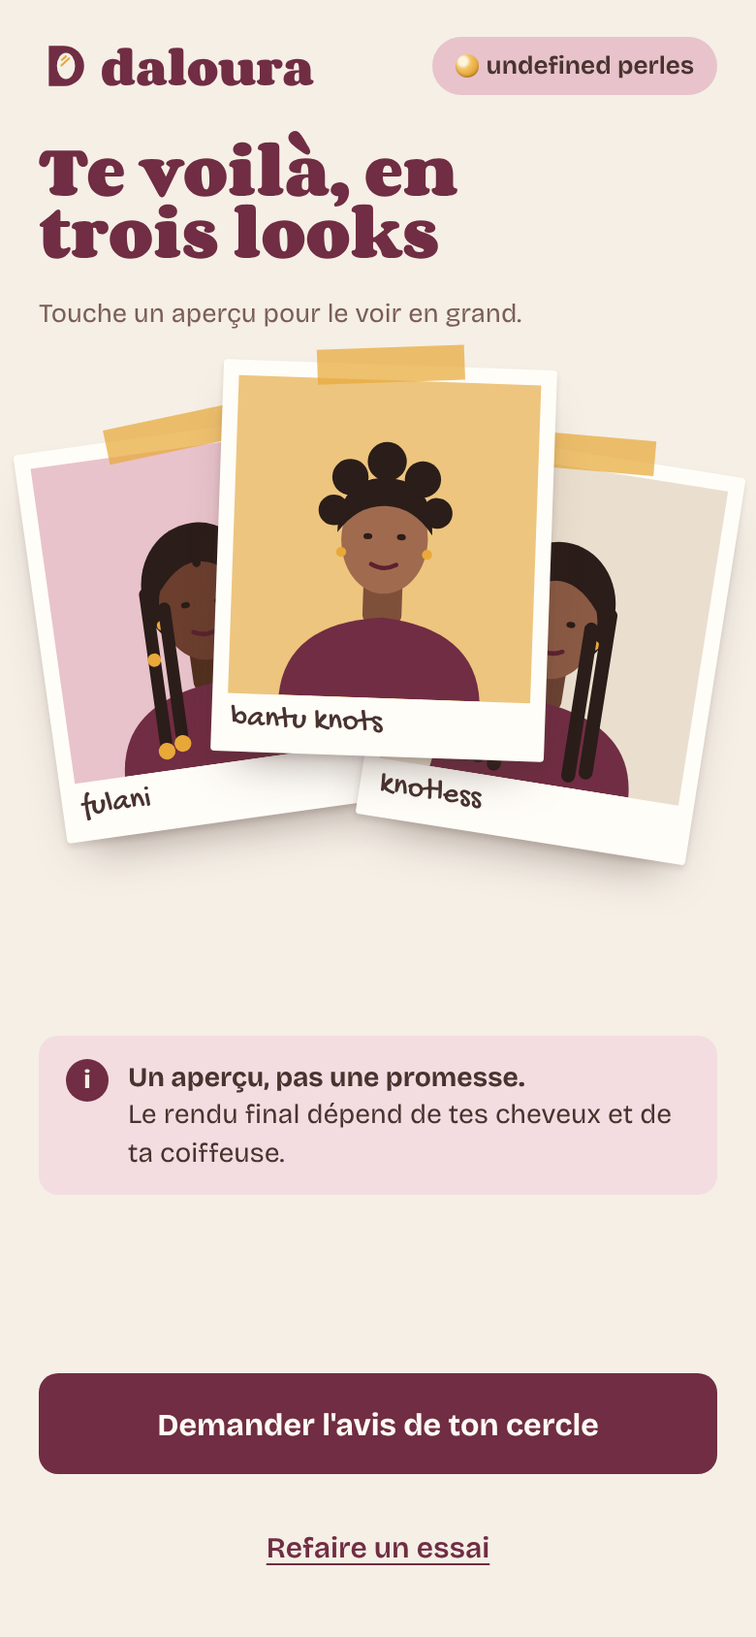
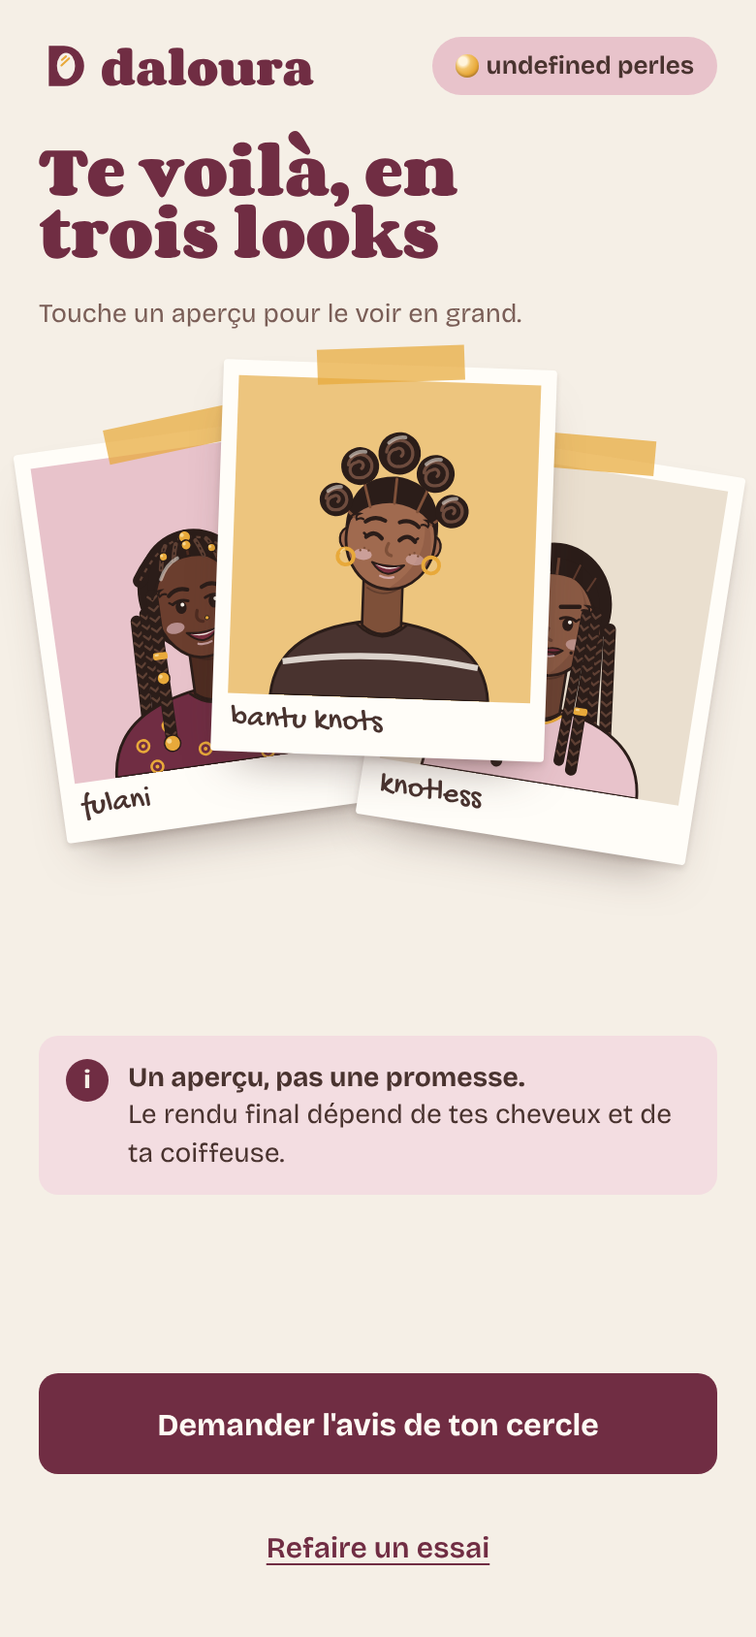
Nouveaux stickers de coiffure validés
- 7 dessins remplacés dans src/assets/ (mêmes noms, même cadre 100×110) :
  tous les écrans les prennent automatiquement.
- Liseré crème façon autocollant sur les stickers (.stk img), mais pas sur
  ses vraies photos d'inspiration (classe vraie-photo) ni sur les polaroids.
- Générateur scripts/stickers_gen.py (sortie dans scripts/out/, ignoré) :
  reproduit exactement les fichiers fournis.
- Image de partage et captures d'installation régénérées.
- Vérifié à 360 et 390 px (Accueil, Bibliothèque, Choix-essai, Choix-3,
  Aperçus, Vote) : aucun débordement, aucune image cassée.
- Correctif : « undefined perles » ne s'affiche plus quand le serveur ne
  renvoie pas un vrai compte.
- CLAUDE.md et README : collection validée, règles pour en ajouter.

Claude-Session: https://claude.ai/code/session_017Cck3H6C7uHeQ1jtVwg9fp

Changed region(s): [[0.3385, 0.2464, 0.6462, 0.4313], [0.5538, 0.3389, 0.8615, 0.4929], [0.1538, 0.3081, 0.3077, 0.4929]]

diff --git a/src/lib/compte.ts b/src/lib/compte.ts
@@ -40,7 +40,10 @@ function publier(e: Partial<Etat>) {
 
 let chargement: Promise<void> | null = null;
 export function rafraichirCompte() {
-  chargement = api<Compte>("/moi").then((r) => publier({ charge: true, compte: r.ok ? r.data : null }));
+  // N'accepte qu'une vraie réponse de compte (sinon, par exemple sans serveur, on n'est pas connectée).
+  chargement = api<Compte>("/moi").then((r) =>
+    publier({ charge: true, compte: r.ok && estUnCompte(r.data) ? r.data : null }),
+  );
   return chargement;
 }
 
@@ -57,6 +60,9 @@ export function useCompte() {
   }, []);
   return e;
 }
+
+const estUnCompte = (d: unknown): d is Compte =>
+  !!d && typeof (d as Compte).email === "string" && typeof (d as Compte).perles === "number";
 
 export function connecte(compte: Compte) {
   publier({ charge: true, compte });

diff --git a/src/styles/app.css b/src/styles/app.css
@@ -569,6 +569,11 @@ a,
   width: 90%;
   display: block;
 }
+/* Liseré crème façon autocollant, sur les stickers seulement : pas sur ses vraies photos
+   (class "vraie-photo"), ni sur les polaroids qui représentent des photos. */
+.stk img:not(.vraie-photo) {
+  filter: drop-shadow(1.2px 0 0 #fffdf8) drop-shadow(-1.2px 0 0 #fffdf8) drop-shadow(0 -1.2px 0 #fffdf8);
+}
 .stk.round {
   border-radius: 50%;
 }

diff --git a/src/components/PhotoInspiration.tsx b/src/components/PhotoInspiration.tsx
@@ -8,6 +8,7 @@ export function PhotoInspiration({ slug, alt }: { slug: string; alt: string }) {
   if (url)
     return (
       <img
+        className="vraie-photo"
         src={url}
         alt={alt}
         style={{ width: "100%", height: "100%", objectFit: "cover" }}

diff --git a/src/components/GrilleCoiffures.tsx b/src/components/GrilleCoiffures.tsx
@@ -81,6 +81,7 @@ function Case({
         {photo ? (
           url && (
             <img
+              className="vraie-photo"
               src={url}
               alt=""
               style={{ width: "100%", height: "100%", objectFit: "cover" }}

diff --git a/scripts/stickers_gen.py b/scripts/stickers_gen.py
@@ -1,0 +1,287 @@
+"""Génère la collection de stickers de coiffure Daloura (SVG 100x110)."""
+import math, json, os
+
+INK = "#2B1D19"      # contour et cheveux noirs
+CREAM = "#F5EFE6"
+GOLD = "#E8A93A"
+GOLD_HI = "#F6D58F"
+ROSE = "#E8C3CB"
+WINE = "#702D43"
+BROWN = "#49332F"
+LIP = "#7A2E3E"
+
+def f(x): return ("%.1f" % x).rstrip("0").rstrip(".")
+
+def braid(x0, y0, x1, y1, w, col, hi, n=None, cuffs=()):
+    """Tresse en chevrons de (x0,y0) à (x1,y1)."""
+    L = math.hypot(x1-x0, y1-y0); ang = math.degrees(math.atan2(y1-y0, x1-x0)) - 90
+    n = n or max(3, int(L / 3.6))
+    out = [f'<g transform="translate({f(x0)} {f(y0)}) rotate({f(ang)})">',
+           f'<rect x="{f(-w/2)}" y="0" width="{f(w)}" height="{f(L)}" rx="{f(w/2)}" fill="{col}"/>']
+    step = L / n
+    for i in range(1, n):
+        y = i*step
+        out.append(f'<path d="M{f(-w/2+0.6)} {f(y-1.4)} L0 {f(y)} L{f(w/2-0.6)} {f(y-1.4)}" fill="none" stroke="{hi}" stroke-width="0.8" stroke-linecap="round"/>')
+    for c in cuffs:
+        y = L*c
+        out.append(f'<rect x="{f(-w/2-0.4)}" y="{f(y-1.3)}" width="{f(w+0.8)}" height="2.6" rx="0.8" fill="{GOLD}"/>')
+        out.append(f'<rect x="{f(-w/2+0.2)}" y="{f(y-0.9)}" width="{f(w*0.35)}" height="0.8" rx="0.4" fill="{GOLD_HI}"/>')
+    out.append('</g>')
+    return "".join(out)
+
+def loc(x0, y0, x1, y1, w, col, hi, wraps=()):
+    L = math.hypot(x1-x0, y1-y0); ang = math.degrees(math.atan2(y1-y0, x1-x0)) - 90
+    n = max(3, int(L / 4.2)); step = L/n
+    out = [f'<g transform="translate({f(x0)} {f(y0)}) rotate({f(ang)})">',
+           f'<rect x="{f(-w/2)}" y="0" width="{f(w)}" height="{f(L)}" rx="{f(w/2)}" fill="{col}"/>']
+    for i in range(1, n):
+        y = i*step
+        out.append(f'<path d="M{f(-w/2+0.5)} {f(y)} Q0 {f(y+1.3)} {f(w/2-0.5)} {f(y)}" fill="none" stroke="{hi}" stroke-width="0.8" stroke-linecap="round"/>')
+    for c in wraps:
+        y = L*c
+        for k in range(3):
+            out.append(f'<path d="M{f(-w/2)} {f(y+k*1.3)} L{f(w/2)} {f(y+k*1.3-0.9)}" stroke="{GOLD}" stroke-width="0.8"/>')
+    out.append('</g>')
+    return "".join(out)
+
+def bead(x, y, r=2.4):
+    return (f'<circle cx="{f(x)}" cy="{f(y)}" r="{f(r)}" fill="{GOLD}" stroke="{INK}" stroke-width="0.5"/>'
+            f'<circle cx="{f(x-r*0.35)}" cy="{f(y-r*0.35)}" r="{f(r*0.32)}" fill="{GOLD_HI}"/>')
+
+# ---------- base commune ----------
+def body(skin, shade, top, deco=None):
+    s = [f'<path d="M11 110 Q13 85 50 82 Q87 85 89 110 Z" fill="{top}" stroke="{INK}" stroke-width="1"/>']
+    if deco == "wax":   # petit motif wax doré
+        for x, y in ((22, 100), (32, 94), (44, 104), (58, 100), (70, 94), (80, 103), (26, 108), (66, 108), (50, 96)):
+            s.append(f'<circle cx="{x}" cy="{y}" r="2.1" fill="none" stroke="{GOLD}" stroke-width="0.9"/><circle cx="{x}" cy="{y}" r="0.7" fill="{GOLD}"/>')
+    if deco == "stripe":
+        s.append(f'<path d="M15 98 Q50 92 85 98" fill="none" stroke="{CREAM}" stroke-width="2.2" opacity=".85"/>')
+    s.append(f'<path d="M41 83.5 Q50 92 59 83.5" fill="{shade}" stroke="{INK}" stroke-width="0.9"/>')
+    s.append(f'<path d="M43 62 L43 84 Q50 90 57 84 L57 62 Z" fill="{shade}" stroke="{INK}" stroke-width="0.9"/>')
+    s.append(f'<path d="M44.2 70.4 Q50 74.4 55.8 70.4" fill="none" stroke="{INK}" stroke-width="0.6" opacity=".35"/>')
+    if deco == "cowries":   # collier de cauris
+        for i, x in enumerate((42.4, 46.2, 50, 53.8, 57.6)):
+            y = 86.2 + (0 if i in (0, 4) else 1.6 if i in (1, 3) else 2.2)
+            s.append(f'<ellipse cx="{x}" cy="{f(y)}" rx="1.5" ry="2" fill="{CREAM}" stroke="{INK}" stroke-width="0.45"/><path d="M{x} {f(y-1.1)} L{x} {f(y+1.1)}" stroke="{INK}" stroke-width="0.4"/>')
+    if deco == "chain":
+        s.append(f'<path d="M42 84.8 Q50 92.4 58 84.8" fill="none" stroke="{GOLD}" stroke-width="0.9"/><circle cx="50" cy="89.8" r="1.6" fill="{GOLD}" stroke="{INK}" stroke-width="0.4"/>')
+    return "".join(s)
+
+def head(skin, shade, eyes="open", mouth="open", face=(15.6, 18.6), brow="arch", extra=()):
+    rx, ry = face
+    s = [f'<ellipse cx="34.6" cy="54" rx="2.7" ry="3.8" fill="{skin}" stroke="{INK}" stroke-width="0.8"/>',
+         f'<ellipse cx="65.4" cy="54" rx="2.7" ry="3.8" fill="{skin}" stroke="{INK}" stroke-width="0.8"/>',
+         f'<ellipse cx="50" cy="52.5" rx="{rx}" ry="{ry}" fill="{skin}" stroke="{INK}" stroke-width="1"/>',
+         # ombre peinte côté droit (aplat, pas de dégradé)
+         f'<path d="M{f(50+rx*0.5)} {f(52.5-ry*0.86)} Q{f(50+rx*1.06)} {f(52.5-ry*0.2)} {f(50+rx*0.86)} {f(52.5+ry*0.5)} Q{f(50+rx*0.5)} {f(52.5+ry*0.95)} {f(50+rx*0.05)} {f(52.5+ry*0.99)} Q{f(50+rx*0.62)} {f(52.5+ry*0.6)} {f(50+rx*0.74)} {f(52.5+ry*0.06)} Q{f(50+rx*0.8)} {f(52.5-ry*0.5)} {f(50+rx*0.5)} {f(52.5-ry*0.86)} Z" fill="{shade}" opacity=".38"/>',
+         f'<ellipse cx="40.6" cy="59.2" rx="3.3" ry="2" fill="{ROSE}" opacity=".6"/>',
+         f'<ellipse cx="59.4" cy="59.2" rx="3.3" ry="2" fill="{ROSE}" opacity=".5"/>']
+    if brow == "arch":
+        s.append(f'<path d="M40.4 47.4 Q43.6 44.6 47.4 46.4" fill="none" stroke="{INK}" stroke-width="1.4" stroke-linecap="round"/>')
+        s.append(f'<path d="M52.6 46.4 Q56.4 44.6 59.6 47.4" fill="none" stroke="{INK}" stroke-width="1.4" stroke-linecap="round"/>')
+    else:  # sourcils droits, un peu relevés : l'air sûr de soi
+        s.append(f'<path d="M40.6 47 L47.2 46.2" fill="none" stroke="{INK}" stroke-width="1.6" stroke-linecap="round"/>')
+        s.append(f'<path d="M52.8 46.2 L59.4 45.4" fill="none" stroke="{INK}" stroke-width="1.6" stroke-linecap="round"/>')
+    if eyes == "open":
+        for cx in (44, 56):
+            s.append(f'<ellipse cx="{cx}" cy="52.2" rx="1.95" ry="2.35" fill="{INK}"/>')
+            s.append(f'<circle cx="{cx+0.65}" cy="51.35" r="0.7" fill="{CREAM}"/>')
+        s.append(f'<path d="M41.2 50.7 Q44 49 46.9 50.4 M53.1 50.4 Q56 49 58.8 50.7" fill="none" stroke="{INK}" stroke-width="1" stroke-linecap="round"/>')
+        s.append(f'<path d="M41.3 50.8 l-1.2 -0.9 M58.7 50.8 l1.2 -0.9" stroke="{INK}" stroke-width="0.8" stroke-linecap="round"/>')
+    elif eyes == "wink":
+        s.append(f'<ellipse cx="44" cy="52.2" rx="1.95" ry="2.35" fill="{INK}"/><circle cx="44.65" cy="51.35" r="0.7" fill="{CREAM}"/>')
+        s.append(f'<path d="M41.2 50.7 Q44 49 46.9 50.4" fill="none" stroke="{INK}" stroke-width="1" stroke-linecap="round"/><path d="M41.3 50.8 l-1.2 -0.9" stroke="{INK}" stroke-width="0.8" stroke-linecap="round"/>')
+        s.append(f'<path d="M53.2 52.8 Q56 50 58.8 52.8" fill="none" stroke="{INK}" stroke-width="1.5" stroke-linecap="round"/><path d="M58.6 52.4 l1.1 -0.9" stroke="{INK}" stroke-width="0.9" stroke-linecap="round"/>')
+    else:  # yeux rieurs
+        s.append(f'<path d="M41.2 52.8 Q44 49.8 46.8 52.8 M53.2 52.8 Q56 49.8 58.8 52.8" fill="none" stroke="{INK}" stroke-width="1.5" stroke-linecap="round"/>')
+        s.append(f'<path d="M41.4 52.4 l-1.1 -0.9 M58.6 52.4 l1.1 -0.9" stroke="{INK}" stroke-width="0.9" stroke-linecap="round"/>')
+    s.append(f'<path d="M49.4 54.4 Q47.8 58 50.8 58.6" fill="none" stroke="{shade}" stroke-width="1.15" stroke-linecap="round"/>')
+    if mouth == "open":
+        s.append(f'<path d="M44.2 61.6 Q50 68.8 55.8 61.6 Q50 63.2 44.2 61.6 Z" fill="{LIP}" stroke="{INK}" stroke-width="0.7" stroke-linejoin="round"/>')
+        s.append(f'<path d="M45.5 62.2 Q50 63.7 54.5 62.2 Q50 64.7 45.5 62.2 Z" fill="{CREAM}"/>')
+        s.append(f'<path d="M47.6 66.2 Q50 67.2 52.4 66.2" fill="none" stroke="{ROSE}" stroke-width="0.8" stroke-linecap="round" opacity=".7"/>')
+    else:
+        s.append(f'<path d="M44.6 61.8 Q47.4 60.6 50 61.6 Q52.6 60.6 55.4 61.8 Q50 66.4 44.6 61.8 Z" fill="{LIP}" stroke="{INK}" stroke-width="0.6" stroke-linejoin="round"/>')
+        s.append(f'<path d="M45.4 62.2 Q50 63.6 54.6 62.2" fill="none" stroke="{INK}" stroke-width="0.7" stroke-linecap="round"/>')
+        s.append(f'<path d="M47.6 64 Q50 64.8 52.4 64" fill="none" stroke="{ROSE}" stroke-width="0.7" stroke-linecap="round" opacity=".7"/>')
+    if "mark" in extra:
+        s.append(f'<circle cx="58.4" cy="62.2" r="0.6" fill="{INK}"/>')
+    if "freckles" in extra:
+        for x, y in ((41, 56.8), (42.6, 57.6), (39.6, 57.8), (59, 56.8), (57.4, 57.6), (60.4, 57.8)):
+            s.append(f'<circle cx="{x}" cy="{y}" r="0.42" fill="{shade}"/>')
+    if "stud" in extra:
+        s.append(f'<circle cx="52.4" cy="57.6" r="0.75" fill="{GOLD}" stroke="{INK}" stroke-width="0.3"/>')
+    return "".join(s)
+
+def edges(left=True, right=True):
+    """Baby hairs plaqués en vagues sur les tempes."""
+    out = []
+    if left:
+        out.append(f'<path d="M34.4 47.4 Q35.4 44.6 38 44.8 Q36.4 45.6 37.2 47 Q38.4 46 39.6 46.6" fill="none" stroke="{INK}" stroke-width="0.75" stroke-linecap="round"/>')
+    if right:
+        out.append(f'<path d="M65.6 47.4 Q64.6 44.6 62 44.8 Q63.6 45.6 62.8 47 Q61.6 46 60.4 46.6" fill="none" stroke="{INK}" stroke-width="0.75" stroke-linecap="round"/>')
+    return "".join(out)
+
+def jewel(kind):
+    if kind == "hoops":
+        return (f'<circle cx="34.6" cy="60.6" r="2.9" fill="none" stroke="{GOLD}" stroke-width="1.35"/>'
+                f'<circle cx="65.4" cy="60.6" r="2.9" fill="none" stroke="{GOLD}" stroke-width="1.35"/>'
+                f'<path d="M32.6 59.4 Q33 58.2 34 57.8" stroke="{GOLD_HI}" stroke-width="0.6" fill="none"/>')
+    if kind == "drops":
+        return "".join(f'<path d="M{x} 57.6 L{x} 60.4" stroke="{GOLD}" stroke-width="0.8"/><path d="M{x} 60 Q{x-2.2} 63 {x} 65 Q{x+2.2} 63 {x} 60 Z" fill="{GOLD}" stroke="{INK}" stroke-width="0.4"/>' for x in (34.6, 65.4))
+    if kind == "studs":
+        return "".join(f'<circle cx="{x}" cy="57.8" r="1.4" fill="{GOLD}" stroke="{INK}" stroke-width="0.4"/>' for x in (34.6, 65.4))
+    return ""
+
+def _old_hoops():
+    return (f'<circle cx="34.6" cy="60.4" r="2.8" fill="none" stroke="{GOLD}" stroke-width="1.3"/>'
+            f'<circle cx="65.4" cy="60.4" r="2.8" fill="none" stroke="{GOLD}" stroke-width="1.3"/>')
+
+def shine(d):
+    return f'<path d="{d}" fill="none" stroke="{CREAM}" stroke-width="1.3" stroke-linecap="round" opacity=".55"/>'
+
+CAP = "M33.2 50.5 Q32.6 30 50 28.8 Q67.4 30 66.8 50.5 Q63.6 39.2 57.2 36.2 Q50 33.6 42.8 36.2 Q36.4 39.2 33.2 50.5 Z"
+
+# ---------- coiffures ----------
+def fulani(skin, shade):
+    hi = "#5E4034"
+    back = f'<ellipse cx="50" cy="47" rx="20.5" ry="22" fill="{INK}"/>'
+    front = [f'<path d="{CAP}" fill="{INK}"/>']
+    # cornrows : rangées qui partent du front vers l'arrière
+    for x0, x1 in ((39.5, 42.5), (44.5, 46.4), (55.5, 53.6), (60.5, 57.5)):
+        front.append(f'<path d="M{x0} {37.5 if x0<42 or x0>58 else 35.4} Q{(x0+x1)/2} 31.5 {x1} 29.6" fill="none" stroke="{hi}" stroke-width="1.6" stroke-linecap="round"/>')
+        front.append(f'<path d="M{x0} {37.5 if x0<42 or x0>58 else 35.4} Q{(x0+x1)/2} 31.5 {x1} 29.6" fill="none" stroke="{INK}" stroke-width="0.5" stroke-dasharray="1 1.2"/>')
+    front.append(f'<path d="M50 34.2 L50 28.6" stroke="{shade}" stroke-width="0.9"/>')
+    front.append(bead(50, 30.6, 1.8)); front.append(bead(41.2, 33.2, 1.5)); front.append(bead(58.8, 33.2, 1.5))
+    # tresses latérales devant les oreilles, avec perles
+    front.append(braid(34.6, 44, 31.6, 101, 4.4, INK, hi, cuffs=(0.42,)))
+    front.append(braid(65.4, 44, 68.4, 101, 4.4, INK, hi, cuffs=(0.42,)))
+    front.append(bead(31.7, 99.5, 2.9)); front.append(bead(68.3, 99.5, 2.9))
+    front.append(bead(32.9, 76, 2.3)); front.append(bead(67.1, 76, 2.3))
+    # tresses arrière qui passent derrière les épaules
+    back += (braid(27.5, 52, 23, 108, 4.2, INK, hi) + braid(72.5, 52, 77, 108, 4.2, INK, hi)
+             + braid(31, 50, 27.6, 110, 4.2, INK, hi) + braid(69, 50, 72.4, 110, 4.2, INK, hi))
+    # tresse couronne sur le dessus
+    back += f'<path d="M31.4 40 Q50 15.6 68.6 40" fill="none" stroke="{INK}" stroke-width="5.2" stroke-linecap="round"/>'
+    back += f'<path d="M31.4 40 Q50 15.6 68.6 40" fill="none" stroke="{hi}" stroke-width="0.8" stroke-dasharray="1.6 1.8"/>'
+    back += bead(50, 27.6, 2.2)
+    front.append(shine("M38.8 41 Q41.5 36 46 34.6"))
+    front.append(edges())
+    return back, "".join(front)
+
+def knots(skin, shade):
+    hi = "#6E4C3E"
+    back = ""
+    front = [f'<path d="M33.4 50.6 Q33 31.2 50 30.2 Q67 31.2 66.6 50.6 Q62.4 40.4 50 39.8 Q37.6 40.4 33.4 50.6 Z" fill="{INK}"/>']
+    # raies (triangles de cuir chevelu)
+    front.append(f'<path d="M50 39.8 L50 31 M41.5 42 L38.5 33.5 M58.5 42 L61.5 33.5 M36 46 L31 42 M64 46 L69 42" stroke="{shade}" stroke-width="1" stroke-linecap="round"/>')
+    for (x, y, r) in ((50, 21.8, 7.6), (36.4, 27.8, 6.8), (63.6, 27.8, 6.8), (29.2, 40.6, 6), (70.8, 40.6, 6)):
+        front.append(f'<circle cx="{x}" cy="{y}" r="{r}" fill="{INK}"/>')
+        # spirale du nœud
+        a = r*0.62
+        front.append(f'<path d="M{f(x-a)} {f(y)} A{f(a)} {f(a)} 0 1 1 {f(x)} {f(y+a)} A{f(a*0.62)} {f(a*0.62)} 0 1 1 {f(x-a*0.3)} {f(y-a*0.3)} A{f(a*0.3)} {f(a*0.3)} 0 1 1 {f(x+a*0.15)} {f(y+a*0.2)}" fill="none" stroke="{hi}" stroke-width="1.15" stroke-linecap="round"/>')
+        front.append(shine(f"M{f(x-r*0.55)} {f(y-r*0.45)} Q{f(x-r*0.2)} {f(y-r*0.8)} {f(x+r*0.2)} {f(y-r*0.78)}"))
+    front.append(edges())
+    return back, "".join(front)
+
+def knotless(skin, shade):
+    hi = "#5E4034"
+    back = (f'<ellipse cx="50" cy="46" rx="21" ry="22.5" fill="{INK}"/>'
+            + braid(29, 50, 24.5, 109, 4.4, INK, hi) + braid(71, 50, 75.5, 109, 4.4, INK, hi)
+            + braid(33, 54, 30.5, 110, 4.4, INK, hi) + braid(67, 54, 69.5, 110, 4.4, INK, hi))
+    front = [f'<path d="{CAP}" fill="{INK}"/>',
+             f'<path d="M50 35 L50 28.8" stroke="{shade}" stroke-width="1"/>',
+             f'<path d="M44 36 L42 30.4 M56 36 L58 30.4 M38.6 39.6 L36 34.4 M61.4 39.6 L64 34.4" stroke="{shade}" stroke-width="0.7" opacity=".8"/>']
+    # tresses devant les épaules
+    front.append(braid(34.2, 45, 36.6, 106, 4.2, INK, hi, cuffs=(0.62,)))
+    front.append(braid(65.8, 45, 63.4, 106, 4.2, INK, hi, cuffs=(0.62,)))
+    front.append(braid(37.6, 46, 41.4, 103, 3.8, INK, hi))
+    front.append(braid(62.4, 46, 58.6, 103, 3.8, INK, hi))
+    front.append(shine("M39 41 Q42 35.5 47 34.4"))
+    front.append(edges())
+    return back, "".join(front)
+
+def locs(skin, shade):
+    hi = "#6B4A3A"
+    back = (f'<ellipse cx="50" cy="45" rx="22" ry="22" fill="{INK}"/>'
+            + loc(28, 46, 23, 104, 7, INK, hi) + loc(72, 46, 77, 104, 7, INK, hi))
+    front = [f'<ellipse cx="50" cy="23.5" rx="12.5" ry="8" fill="{INK}"/>',
+             f'<path d="M39 24 Q44 19 50 18.5 M41 28 Q46 22.6 55 21 M45 30 Q53 25 61 25" fill="none" stroke="{hi}" stroke-width="1.1" stroke-linecap="round"/>',
+             f'<path d="M37.6 27.6 Q50 31.6 62.4 27.6" fill="none" stroke="{GOLD}" stroke-width="1.8"/>',
+             f'<path d="M33 49.5 Q32.6 29.4 50 28.4 Q67.4 29.4 67 49.5 Q58.4 37.2 50 37 Q41.6 37.2 33 49.5 Z" fill="{INK}"/>',
+             f'<path d="M42 36.8 L40 30.6 M50 37 L50 29 M58 36.8 L60 30.6" stroke="{hi}" stroke-width="1" stroke-linecap="round"/>']
+    front.append(loc(34.4, 45, 35.6, 98, 6.4, INK, hi, wraps=(0.5,)))
+    front.append(loc(65.6, 45, 64.4, 98, 6.4, INK, hi))
+    front.append(shine("M41 22.4 Q45 19.8 49 19.6"))
+    return back, "".join(front)
+
+def perruque(skin, shade):
+    col, mid, hi = "#5B3522", "#633A26", "#C08A55"
+    back = (f'<path d="M50 24.5 C29 24.5 22.4 39 23.6 56 C24.4 67 19 75 20.8 88 C22 97 26.4 103 31 104.6 C29.6 101 31.6 98.4 30.4 94 '
+            f'C33.6 96.6 36.4 96 37.6 93 L37.6 78 L62.4 78 L62.4 93 C63.6 96 66.4 96.6 69.6 94 C68.4 98.4 70.4 101 69 104.6 '
+            f'C73.6 103 78 97 79.2 88 C81 75 75.6 67 76.4 56 C77.6 39 71 24.5 50 24.5 Z" fill="{col}"/>')
+    front = [f'<path d="M50 28.4 C38.4 28.6 32.4 36.6 31.8 48.4 C31.2 58.6 28.6 67 27.4 78 C32.6 73 35.6 64 36.4 53 C37 43 42 35.2 50 32.8 Z" fill="{mid}"/>',
+             f'<path d="M50 28.4 C61.6 28.6 67.6 36.6 68.2 48.4 C68.8 58.6 71.4 67 72.6 78 C67.4 73 64.4 64 63.6 53 C63 43 58 35.2 50 32.8 Z" fill="{mid}"/>',
+             f'<path d="M50 27.6 L50 33" stroke="{shade}" stroke-width="0.9"/>',
+             f'<path d="M30.4 58 Q34.4 64.5 30.6 71.5 M69.6 58 Q65.6 64.5 69.4 71.5 M25.2 80 Q30 88 25.8 97 M74.8 80 Q70 88 74.2 97 M28 44 Q30.6 50 27.6 56 M72 44 Q69.4 50 72.4 56" fill="none" stroke="{hi}" stroke-width="1.5" stroke-linecap="round"/>',
+             f'<path d="M35.4 40.4 Q37.8 34.4 44.6 31.6" fill="none" stroke="{hi}" stroke-width="2" stroke-linecap="round"/>',
+             f'<path d="M64.6 40.4 Q62.2 34.4 55.4 31.6" fill="none" stroke="{hi}" stroke-width="1.2" stroke-linecap="round" opacity=".75"/>',
+             shine("M38 37 Q40.4 33.2 45 31.6")]
+    return back, "".join(front)
+
+def afro(skin, shade):
+    hi = "#5E4034"
+    pts = []
+    R = 31.5; cx, cy = 50, 41
+    puffs = "".join(f'<circle cx="{f(cx+R*math.cos(a))}" cy="{f(cy+R*0.92*math.sin(a))}" r="6.2" fill="{INK}"/>'
+                    for a in [i*2*math.pi/22 for i in range(22)] if math.sin(a) < 0.62)
+    back = f'<ellipse cx="{cx}" cy="{cy}" rx="{R}" ry="{R*0.92}" fill="{INK}"/>' + puffs
+    # texture : petites boucles
+    import random
+    random.seed(4)
+    coils = []
+    for _ in range(26):
+        a = random.uniform(0, 2*math.pi); rr = random.uniform(8, 29)
+        x = cx + rr*math.cos(a); y = cy + rr*0.9*math.sin(a)
+        if 34 < x < 66 and y > 36: continue
+        coils.append(f'<path d="M{f(x-1.4)} {f(y)} a1.4 1.4 0 1 1 1.4 1.4" fill="none" stroke="{hi}" stroke-width="0.9" stroke-linecap="round"/>')
+    back += "".join(coils)
+    front = [f'<path d="M33.6 50 Q33.8 34 50 33 Q66.2 34 66.4 50 Q62 40.4 50 39.6 Q38 40.4 33.6 50 Z" fill="{INK}"/>',
+             f'<path d="M23 38 Q50 18 77 38" fill="none" stroke="{ROSE}" stroke-width="4.4" stroke-linecap="round"/>',
+             f'<path d="M23 38 Q50 18 77 38" fill="none" stroke="{WINE}" stroke-width="1" stroke-dasharray="2.2 2.4" stroke-linecap="round"/>',
+             shine("M27 28 Q33 18 43 14.6"), shine("M62 14 Q66 15.6 69 18")]
+    return back, "".join(front)
+
+def selfie_hair(skin, shade):
+    back = f'<ellipse cx="50" cy="40" rx="19.5" ry="17" fill="{INK}"/><circle cx="50" cy="22" r="8.5" fill="{INK}"/>'
+    front = [f'<path d="M33.6 49 Q33.6 33 50 32.4 Q66.4 33 66.4 49 Q60 39.4 50 38.8 Q40 39.4 33.6 49 Z" fill="{INK}"/>',
+             f'<path d="M42.4 27.6 Q50 31 57.6 27.6" fill="none" stroke="{GOLD}" stroke-width="1.6"/>',
+             shine("M45 18 Q49 15.6 53 16.4"), shine("M38.6 42.6 Q41.6 37.6 47 36")]
+    return back, "".join(front)
+
+STYLES = {
+    # nom : coiffure, peau, ombre, haut, motif, yeux, bouche, visage (rx, ry), sourcils, bijoux, détails, inclinaison
+    "fulani":   dict(fn=fulani,   skin="#6B3E2E", shade="#4E2C21", top=WINE,   deco="wax",     eyes="open",  mouth="open",  face=(15.2, 18.8), brow="arch",     jewel="drops", extra=("stud",),     tilt=-3),
+    "knots":    dict(fn=knots,    skin="#A06A4F", shade="#7E5039", top=BROWN,  deco="stripe",  eyes="smile", mouth="open",  face=(16, 18.2),   brow="arch",     jewel="hoops", extra=("freckles",), tilt=4),
+    "knotless": dict(fn=knotless, skin="#8A5A44", shade="#6A4232", top=ROSE,   deco="chain",   eyes="open",  mouth="smile", face=(15.4, 18.8), brow="straight", jewel="studs", extra=("mark",),     tilt=-2),
+    "locs":     dict(fn=locs,     skin="#5A3426", shade="#3F2318", top=WINE,   deco="cowries", eyes="smile", mouth="open",  face=(15.8, 18.4), brow="arch",     jewel="hoops", extra=(),             tilt=3),
+    "perruque": dict(fn=perruque, skin="#7A4A35", shade="#5C3526", top=ROSE,   deco="chain",   eyes="wink",  mouth="open",  face=(15.2, 18.9), brow="arch",     jewel="drops", extra=("mark",),     tilt=-4),
+    "afro":     dict(fn=afro,     skin="#6B3E2E", shade="#4E2C21", top=BROWN,  deco="cowries", eyes="smile", mouth="smile", face=(16.2, 18.2), brow="straight", jewel="hoops", extra=(),             tilt=2),
+    "selfie":   dict(fn=selfie_hair, skin="#7A4A35", shade="#5C3526", top=WINE, deco=None,     eyes="open",  mouth="smile", face=(15.6, 18.6), brow="arch",     jewel="hoops", extra=(),             tilt=0),
+}
+
+def svg(name, skin=None, shade=None, tilt=None):
+    st = STYLES[name]
+    skin = skin or st["skin"]; shade = shade or st["shade"]
+    t = st["tilt"] if tilt is None else tilt
+    b, fr = st["fn"](skin, shade)
+    rot = f' transform="rotate({t} 50 84)"' if t else ""
+    inner = (f'<g{rot}>{b}</g>' + body(skin, shade, st["top"], st["deco"])
+             + f'<g{rot}>' + head(skin, shade, st["eyes"], st["mouth"], st["face"], st["brow"], st["extra"]) + jewel(st["jewel"]) + fr + '</g>')
+    return f'<svg xmlns="http://www.w3.org/2000/svg" viewBox="0 0 100 110">{inner}</svg>'
+
+if __name__ == "__main__":
+    out = os.path.join(os.path.dirname(__file__), "out"); os.makedirs(out, exist_ok=True)
+    for n in STYLES:
+        open(os.path.join(out, f"portrait-{n}.svg"), "w").write(svg(n))
+    print({n: len(svg(n)) for n in STYLES})

diff --git a/CLAUDE.md b/CLAUDE.md
@@ -97,6 +97,20 @@ My Hair Recap, payé en perles sans Itaja : 3 mois = 20, 6 mois = 40, 12 mois = 
 - Les écrans publics (Accueil, page de vote, Vote-ferme, Vote-merci) gardent « ton premier essai est offert ».
 - Code secret : on parle de « tentatives », pas d'« essais », pour ne pas confondre.
 
+## Stickers (visuels de coiffure)
+
+- `src/assets/portrait-*.svg` (fulani, knots, knotless, locs, perruque, afro, selfie) sont la **collection validée**,
+  provisoire jusqu'aux stickers peints à la main et aux photos de la séance. Cadre commun : viewBox `0 0 100 110`
+  (les mises en page en dépendent). `src/assets/images.ts` les référence ; `src/lib/coiffures.ts` les associe aux coiffures.
+- Générateur : `python3 scripts/stickers_gen.py` écrit les SVG dans `scripts/out/` (ignoré par git), à copier dans
+  `src/assets/` après validation. Il reproduit exactement les fichiers actuels.
+- Règles pour en ajouter : même trait (aplats, contour #2B1D19, reflets crème, ombre en aplat sur un côté du visage),
+  la coiffure fait au moins la moitié du dessin, carnations variées, sourires, bijoux dorés, rien de sexualisé
+  (public dès 14 ans).
+- Liseré crème façon autocollant (`.stk img` dans `app.css`) : sur les stickers seulement. Ses vraies photos dans une
+  case `.stk` portent la classe `vraie-photo` pour en être exclues ; les polaroids n'en ont pas.
+- Après un changement de stickers : relancer `scripts/generer_visuels.cjs` (image de partage, captures d'installation).
+
 ## Photos
 
 - Selfie, inspirations et coiffures choisies pour l'essai sont gardés **dans le navigateur** (IndexedDB,

diff --git a/README.md b/README.md
@@ -39,8 +39,8 @@ Les écrans de `src/screens/` sont générés depuis les maquettes validées (`d
 par `npm run screens:import`. Ils sont statiques (fausses données) : chaque étape les rend dynamiques.
 Dès qu'un écran est modifié à la main, ajoute-le à `MANUELS` dans `scripts/import_maquettes.py` pour ne pas l'écraser.
 
-Les visages et stickers sont des illustrations provisoires (`src/assets/`), à remplacer par les photos
-de la séance et les stickers peints.
+Les stickers de `src/assets/` sont la collection validée (générée par `scripts/stickers_gen.py`), provisoire
+jusqu'aux stickers peints à la main et aux photos de la séance.
 
 ## Déployer sur Cloudflare (une seule fois)
 
